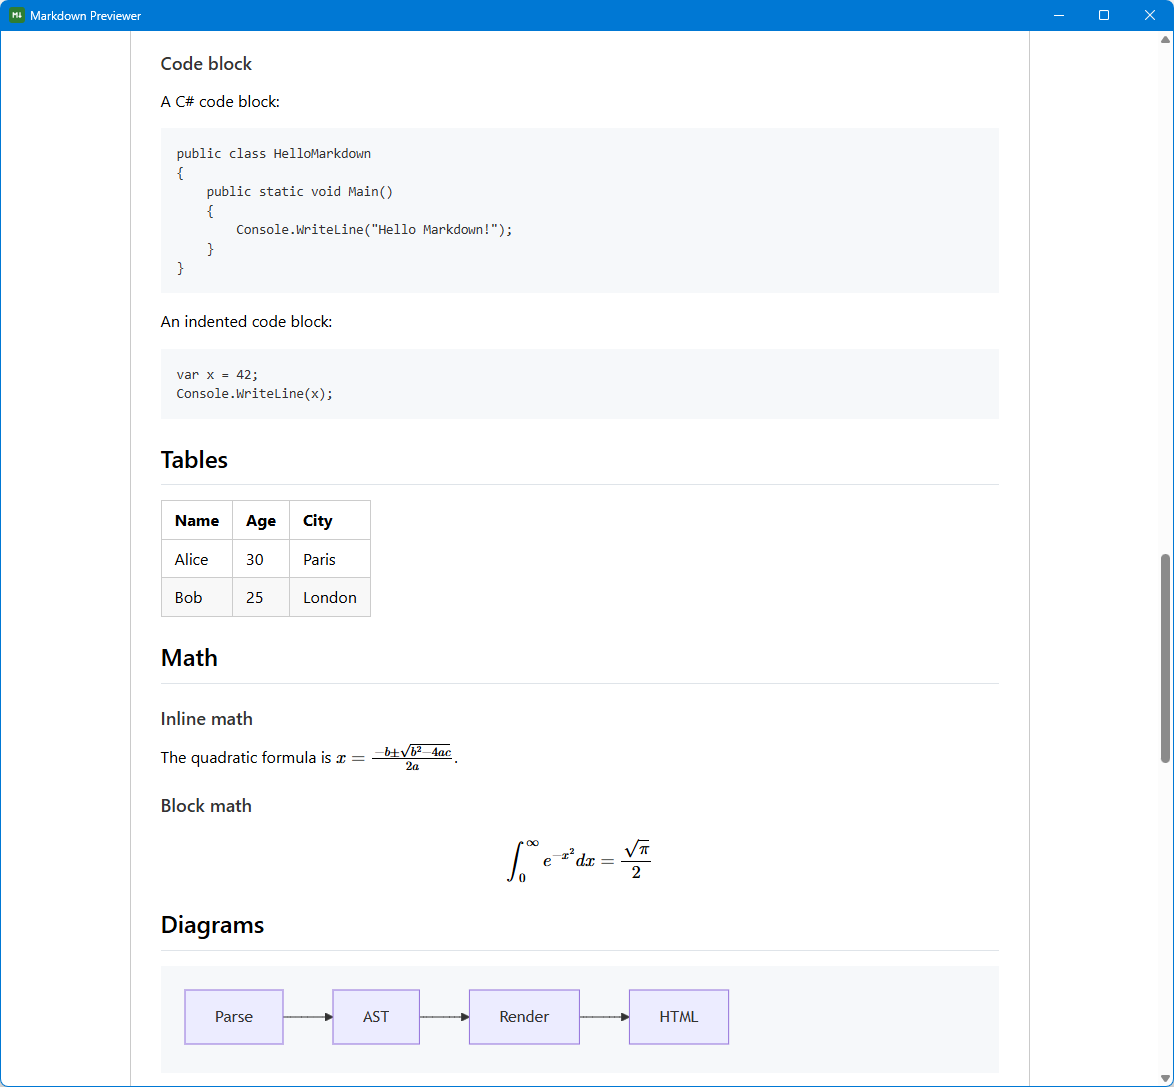
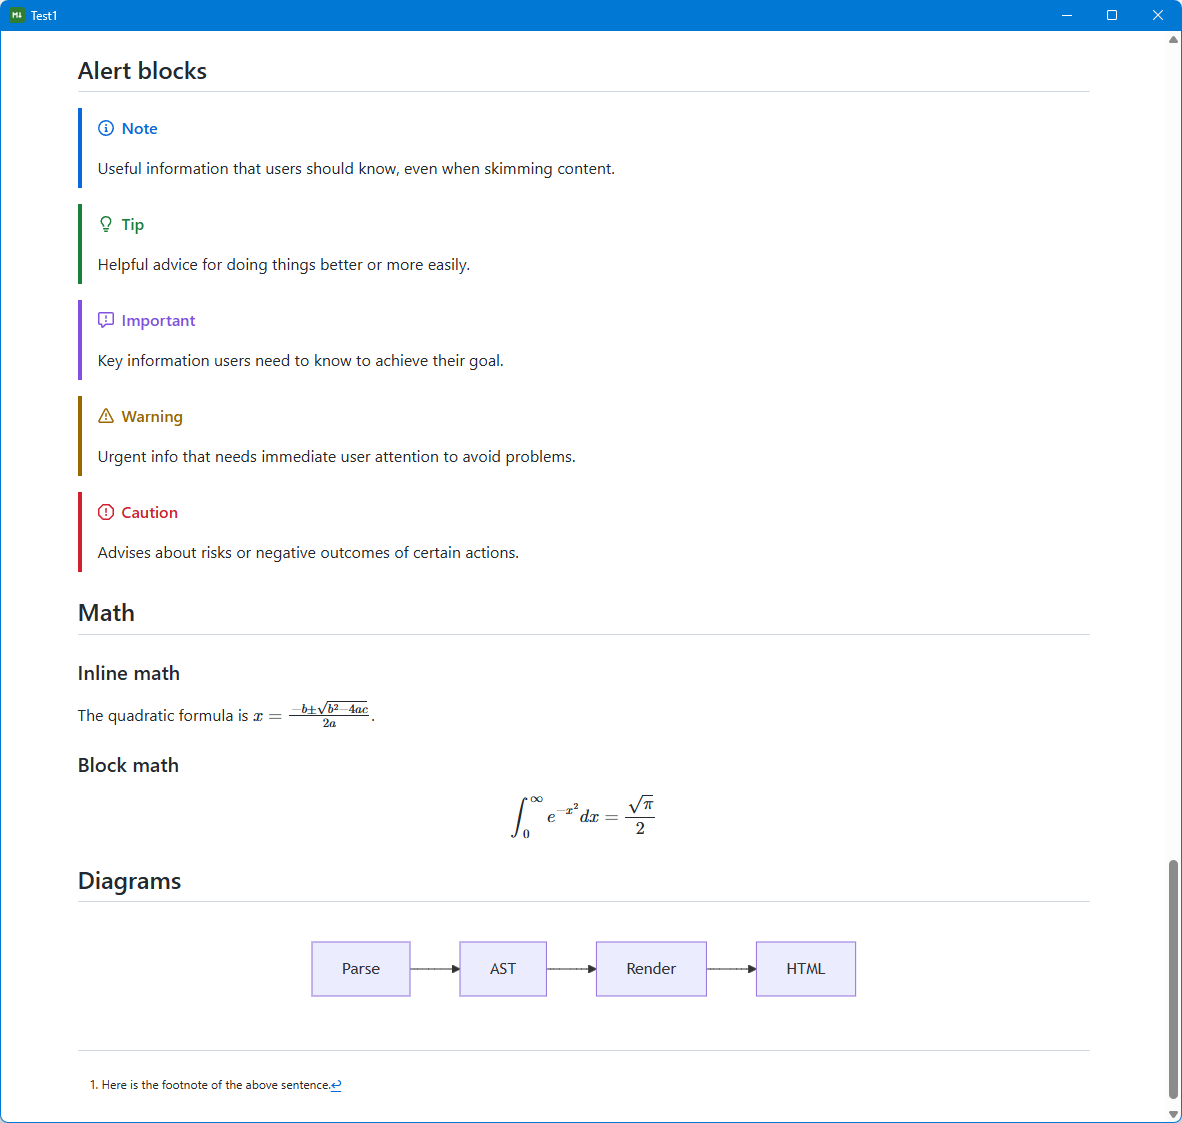
Fix documentation

diff --git a/README.md b/README.md
@@ -4,18 +4,11 @@
 
 <h4 align="center">A lightweight markdown previewer and converter based on the Markdig library</h4>
 
-<h4 align="center">
-  <a href="#features">Features</a>&nbsp;|&nbsp;
-  <a href="#download">Download</a>&nbsp;|&nbsp;
-  <a href="#installation">Installation</a>&nbsp;|&nbsp;
-  <a href="#license">License</a>
-</h4>
-
-![Main screenshot](https://raw.githubusercontent.com/mayakron/markdowntools/main/resources/MarkdownPreviewerMainScreenshot.png)
-
 ## Features
 
 MarkdownPreviewer and MarkdownConverter are lightweight Markdown tools based on the [Markdig](https://xoofx.github.io/markdig) library.
+
+![Main screenshot](https://raw.githubusercontent.com/mayakron/markdowntools/main/resources/MarkdownPreviewerMainScreenshot.png)
 
 ## Download
 